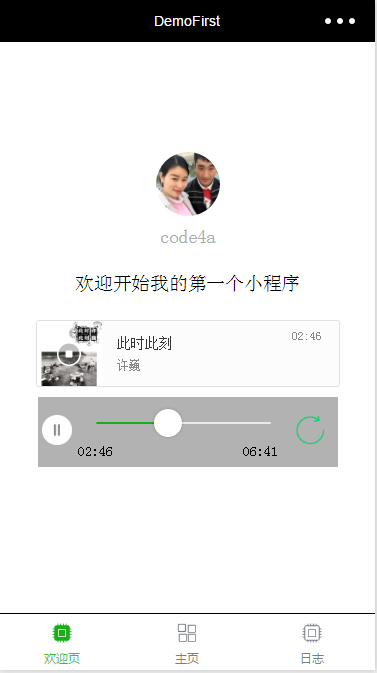
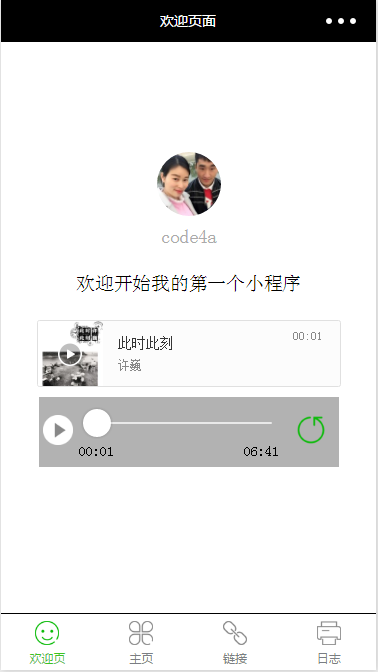
add link page, and change pic res

diff --git a/pages/link/link.js b/pages/link/link.js
@@ -1,0 +1,6 @@
+//link.js
+Page({
+  data: {
+    linkmotto: '欢迎进入我的主页'
+  }
+})
